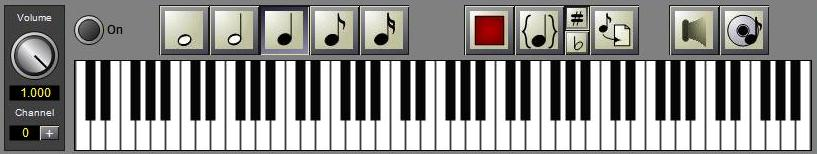
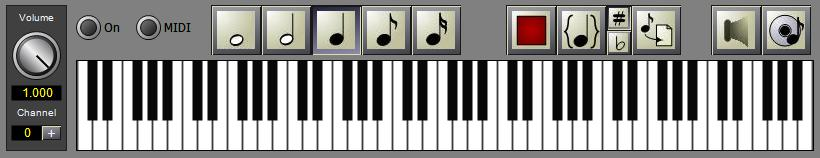
additions for v 1.2: sound banks and MIDI

diff --git a/BSynthComposer/Help/sfinstr.html b/BSynthComposer/Help/sfinstr.html
@@ -1,0 +1,238 @@
+<html>
+<head>
+<title>Sound Bank Instrument</title>
+</head>
+<body>
+<h2>Sound Bank Instrument<hr/></h2>
+<p>The <em>SoundBank</em> instrument provides playback of samples from sound banks (SF2 or DLS files). Unlike the <em>GMPlayer</em>
+instrument, this instrument uses only the sample data and ignores the articulation information (i.e., envelope and modulators). The envelope of the sound
+is controlled by parameters of the <em>SoundBank</em>  instrument.</p>
+<h3>Patch Diagram<hr/></h3>
+<p>The following diagram shows the SoundBank object internal structure.</p>
+<img src="images/soundbankdiag.jpg" alt="Sound bank diagram" />
+
+<h3>Configuration</h3>
+<p>The following table shows the parameter ID numbers and the
+equivalent XML tag and attribute values for the <em>SoundBank</em> instrument. </p>
+
+<table border="1" cellspacing="0" cellpadding="4">
+ <tr valign="top" style="background-color:Black;color:White;">
+  <td><p align="center"><b>Parameter</b></p></td>
+  <td><p align="center"><b>Tag</b></p></td>
+  <td><p align="center"><b>Attribute</b></p></td>
+  <td><p align="center"><b>Name</b><p></td>
+  <td><p align="center"><b>Use</b></p></td>
+ </tr>
+ <tr valign="top">
+  <td><p>16</p></td>
+  <td><p>sf</p></td>
+  <td><p>bank</p></td>
+  <td><p>bank</p></td>
+  <td><p>Bank number matching a bank number in the sound bank file.</p></td>
+</tr>
+<tr valign="top">
+  <td><p>17</p></td>
+  <td><p>&nbsp;</p></td>
+  <td><p>prog</p></td>
+  <td><p>prog</p></td>
+  <td><p>Program number (preset). This selects the instrument from the sound bank.</p></td>
+</tr>
+<tr valign="top">
+  <td><p>18</p></td>
+  <td><p>&nbsp;</p></td>
+  <td><p>mono</p></td>
+  <td><p>monoSet</p></td>
+  <td><p>Force mono playback even if the sound bank sample is multi-channel.</p></td>
+</tr>
+<tr valign="top">
+  <td><p>44</p></td>
+  <td><p>&nbsp;</p></td>
+  <td><p>fmcm</p></td>
+  <td><p>fmcm</p></td>
+  <td><p>Modulator frequency multiplier (i.e., C:M ratio).</p></td>
+</tr>
+<tr valign="top">
+  <td><p>45</p></td>
+  <td><p>&nbsp;</p></td>
+  <td><p>fmim</p></td>
+  <td><p>fmim</p></td>
+  <td><p>Modulator index of modulation..</p></td>
+</tr>
+<tr valign="top">
+  <td><p>20</p></td>
+  <td><p>venv</p></td>
+  <td><p>st</p></td>
+  <td><p>volStart</p></td>
+  <td><p>Volume envelope start level.</p></td>
+</tr>
+<tr valign="top">
+  <td><p>21</p></td>
+  <td><p>&nbsp;</p></td>
+  <td><p>atk</p></td>
+  <td><p>volAttack</p></td>
+  <td><p>Volume envelope attack time.</p></td>
+</tr>
+<tr valign="top">
+  <td><p>22</p></td>
+  <td><p>&nbsp;</p></td>
+  <td><p>atk</p></td>
+  <td><p>volAttack</p></td>
+  <td><p>Volume envelope peak level.</p></td>
+</tr>
+<tr valign="top">
+  <td><p>23</p></td>
+  <td><p>&nbsp;</p></td>
+  <td><p>dec</p></td>
+  <td><p>volDecay</p></td>
+  <td><p>Volume envelope decay time.</p></td>
+</tr>
+<tr valign="top">
+  <td><p>24</p></td>
+  <td><p>&nbsp;</p></td>
+  <td><p>sus</p></td>
+  <td><p>volSustain</p></td>
+  <td><p>Volume envelope sustain level.</p></td>
+</tr>
+<tr valign="top">
+  <td><p>25</p></td>
+  <td><p>&nbsp;</p></td>
+  <td><p>rel</p></td>
+  <td><p>volRelease</p></td>
+  <td><p>Volume envelope release time.</p></td>
+</tr>
+<tr valign="top">
+  <td><p>26</p></td>
+  <td><p>&nbsp;</p></td>
+  <td><p>end</p></td>
+  <td><p>volEnd</p></td>
+  <td><p>Volume envelope end level.</p></td>
+</tr>
+<tr valign="top">
+  <td><p>27</p></td>
+  <td><p>&nbsp;</p></td>
+  <td><p>ty</p></td>
+  <td><p>volType</p></td>
+  <td><p>Volume envelope curve type.</p></td>
+</tr>
+
+<tr valign="top">
+  <td><p>30</p></td>
+  <td><p>menv</p></td>
+  <td><p>st</p></td>
+  <td><p>modStart</p></td>
+  <td><p>Modulator envelope start level.</p></td>
+</tr>
+<tr valign="top">
+  <td><p>31</p></td>
+  <td><p>&nbsp;</p></td>
+  <td><p>atk</p></td>
+  <td><p>modAttack</p></td>
+  <td><p>Modulator envelope attack time.</p></td>
+</tr>
+<tr valign="top">
+  <td><p>32</p></td>
+  <td><p>&nbsp;</p></td>
+  <td><p>atk</p></td>
+  <td><p>modAttack</p></td>
+  <td><p>Modulator envelope peak level.</p></td>
+</tr>
+<tr valign="top">
+  <td><p>33</p></td>
+  <td><p>&nbsp;</p></td>
+  <td><p>dec</p></td>
+  <td><p>modDecay</p></td>
+  <td><p>Modulator envelope decay time.</p></td>
+</tr>
+<tr valign="top">
+  <td><p>34</p></td>
+  <td><p>&nbsp;</p></td>
+  <td><p>sus</p></td>
+  <td><p>modSustain</p></td>
+  <td><p>Modulator envelope sustain level.</p></td>
+</tr>
+<tr valign="top">
+  <td><p>35</p></td>
+  <td><p>&nbsp;</p></td>
+  <td><p>rel</p></td>
+  <td><p>modRelease</p></td>
+  <td><p>Modulator envelope release time.</p></td>
+</tr>
+<tr valign="top">
+  <td><p>36</p></td>
+  <td><p>&nbsp;</p></td>
+  <td><p>end</p></td>
+  <td><p>modEnd</p></td>
+  <td><p>Modulator envelope end level.</p></td>
+</tr>
+<tr valign="top">
+  <td><p>37</p></td>
+  <td><p>&nbsp;</p></td>
+  <td><p>ty</p></td>
+  <td><p>modType</p></td>
+  <td><p>Modulator envelope curve type.</p></td>
+</tr>
+
+<tr valign="top">
+  <td><p>40</p></td>
+  <td><p>vlfo</p></td>
+  <td><p>atk</p></td>
+  <td><p>vibLfoAttack</p></td>
+  <td><p>Modulator envelope curve type.</p></td>
+</tr>
+<tr valign="top">
+  <td><p>41</p></td>
+  <td><p>&nbsp;</p></td>
+  <td><p>frq</p></td>
+  <td><p>vibLfoFrq</p></td>
+  <td><p>Vibrato frequency.</p></td>
+</tr>
+<tr valign="top">
+  <td><p>42</p></td>
+  <td><p>&nbsp;</p></td>
+  <td><p>amp</p></td>
+  <td><p>vibLfoLevel</p></td>
+  <td><p>Vibrato amplitude.</p></td>
+</tr>
+<tr valign="top">
+  <td><p>43</p></td>
+  <td><p>&nbsp;</p></td>
+  <td><p>ty</p></td>
+  <td><p>vibLfoWT</p></td>
+  <td><p>Vibrato wavetable.</p></td>
+</tr>
+
+<tr valign="top">
+  <td><p>46</p></td>
+  <td><p>pb</p></td>
+  <td><p>pbamp</p></td>
+  <td><p>pbamp</p></td>
+  <td><p>Pitch bend amplitude.</p></td>
+</tr>
+<tr valign="top">
+  <td><p>48</p></td>
+  <td><p>pb</p></td>
+  <td><p>pbwt</p></td>
+  <td><p>pbwt</p></td>
+  <td><p>Pitch bend wavetable.</p></td>
+</tr>
+</tr>
+</table>
+
+<h3>XML Format<hr/></h3>
+<pre>
+&lt;instr id=&quot;&quot; type=&quot;SoundBank&quot; name=&quot;&quot; desc=&quot;&quot;&gt;
+   &lt;gm local=&quot;1&quot; vol=&quot;1.000000&quot; pan=&quot;0.000000&quot; bank=&quot;0&quot; prog=&quot;0&quot; flags=&quot;16375&quot;&gt;
+     Soundbank Name
+   &lt;/gm&gt;
+  &lt;sf bank=&quot;0&quot; prog=&quot;0&quot; mono=&quot;0&quot; fmcm=&quot;2.099000&quot; fmim=&quot;0.260000&quot;&gt;
+     &lt;file&gt;alias&lt;/file&gt;
+     &lt;instr&gt;display name&lt;/instr&gt;
+  &lt;/sf&gt;
+  &lt;venv st=&quot;0.000000&quot; atk=&quot;0.330000&quot; pk=&quot;1.000000&quot; dec=&quot;0.000000&quot; sus=&quot;1.000000&quot; rel=&quot;0.400000&quot; end=&quot;0.100000&quot; ty=&quot;2&quot; /&gt;
+  &lt;menv st=&quot;0.000000&quot; atk=&quot;0.389000&quot; pk=&quot;1.000000&quot; dec=&quot;1.549000&quot; sus=&quot;0.480000&quot; rel=&quot;0.619000&quot; end=&quot;0.000000&quot; ty=&quot;2&quot; /&gt;
+  &lt;vlfo frq=&quot;4.630000&quot; wt=&quot;0&quot; atk=&quot;1.039000&quot; amp=&quot;0.070000&quot; /&gt;
+  &lt;pb pbamp=&quot;0.000000&quot; pbwt=&quot;9&quot; /&gt;
+&lt;/instr&gt;
+</pre>
+</body>
+</html>

diff --git a/BSynthComposer/Help/projectoptions.html b/BSynthComposer/Help/projectoptions.html
@@ -1,0 +1,60 @@
+<!DOCTYPE HTML PUBLIC "-//IETF//DTD HTML//EN">
+<html>
+<head>
+<title>Project Options</title>
+</head>
+<body>
+<h1>Project Options<hr/></h1>
+<p>The Project Options form is used to set options for the synthesizer that apply to all projects. The values in this form are stored
+in the registry and reloaded when <i>BasicSynth</i> starts.</p>
+<img src="images/projectoptions.jpg" alt="Project Options" />
+<p>
+The <b>Composer</b> field sets the default composer name. The <b>Copyright</b> field sets the default copyright notice.
+These values are used to initialize a new project.
+</p>
+<p>
+The <b>Project Tree Options</b> buttons select optional features of <i>BasicSynth</i> that will appear in the project tree view.
+</p>
+<ul>
+<li><b>Notelists</b> shows the notelist file entry in the tree.</li>
+<li><b>Sequences</b> shows the sequencer file entry in the tree.</li>
+<li><b>Script files</b> shows an entry for scipt files. Script files are short programs that are processed
+by the synthesizer. (These are not yet implemented.)</li>
+<li><b>Text files</b> shows the text file entry in the tree. Text files are used to asscociate generic 
+text files with the project. These can be used to hold program notes, etc.</li>
+<li><b>Libraries</b> shows the Library file entry in the tree. Libraries are collections of instruments.</li>
+<li><b>SoundFonts</b> shows the Sound Bank file entry in the tree. Enable this if you want to use
+sound bank instruments.</li>
+<li><b>MIDI</b> shows the MIDI entry in the tree. This is used to set default program and volume
+levels for MIDI channels. It is only needed if you have a MIDI keyboard.</li>
+</ul>
+<p>
+The <b>Projects</b> field contains the default directory for project files.
+</p>
+<p>
+The <b>Wave-In</b> field contains the default directory for WAV files used by the WFSynth insrument.
+</p>
+<p>
+The <b>Forms</b> field contains the default directory for instrument form files. 
+</p>
+<p>
+The <b>Colors</b> field contains the file containing color definitions for instrument forms.
+</p>
+<p>
+The <b>Libraries</b> field contains the default directory for instrument library files.
+</p>
+<p>
+The <b>MIDI In</b> field allows selection of the MIDI input device.
+</p>
+<p>
+The <b>Wave Out</b> field allows selection of the wave output device (sound card).
+</p>
+<p>
+The <b>Play Latency</b> field contains the value in seconds for playback latency. A longer latency time
+creates a larger buffer for sound output. A larger buffer helps to prevent glitches in sound output,
+but produces a longer delay between sound generation and sound output. A value of 1 to 0.1 seconds
+is typical. However, when using a MIDI keyboard, this value should be set to the minimum amount (20 milliseconds) to avoid
+audible delays between key press and sound output.
+</p>
+</body>
+</html>

diff --git a/BSynthComposer/Help/player.html b/BSynthComposer/Help/player.html
@@ -19,7 +19,8 @@ For these reasons, the keyboard is not automatically started when you open a pro
 want to play sounds, press the "On" button above the keyboard. Note: The first time you start the
 keyboard there might be a slight delay while the system opens and prepares the sound card. If you
 start the sequencer, or reconfigure the mixer, the keyboard will automatically turn off.</p>
-<p>
+<p>When a MIDI device is connected to the computer, the MIDI light will be available. Click on the
+lamp to enable/disable receiving events from the MIDI keyboard.</p>
 <h2>Instrument Selection<hr/></h2>
 <p>
 A list to the left of the keyboard shows all currently available instruments. In order to play the keyboard,
@@ -45,6 +46,8 @@ is 120bpm, thus a quarter note represents 1/2 second duration. The duration butt
 during recording to indicate the actual length of a note.
 </p>
 <h2>Recording<hr/></h2>
+<p><b>Note:</b> Recording is only available from the virtual keyboard. MIDI events
+are not currently recorded.</p>
 <p>
 The record controls are to the right of the note buttons. The first button (red in color) switches the
 record function on and off. When record is on, each note you play is added to a buffer. Notes

diff --git a/BSynthComposer/Help/gminstr.html b/BSynthComposer/Help/gminstr.html
@@ -5,7 +5,7 @@
 <body>
 <h2>General MIDI Instrument<hr/></h2>
 <p>The <i>GM </i> instrument emulates a MIDI wavetable synthesis keyboard instrument with downloadable sounds. The sound files may
-be loaded from either a SoundFont(R) (SF2) or DLS sound bank. The present version of this instrument does not implement all possible features of
+be loaded from either a SoundFont&reg; (SF2) or DLS sound bank. The present version of this instrument does not implement all possible features of
 the GM specification and sound bank player, but is sufficient to play most sound bank files based on recorded sounds. In particular, only some
 MIDI controller values are recognized and applied to the instrument.</p>
 <p>The instrument type name is <i>GMPlayer</i>, but the instrument is implemented using a combination of objects:

diff --git a/BSynthComposer/Help/toneinstr.html b/BSynthComposer/Help/toneinstr.html
@@ -9,7 +9,7 @@ contains a single oscillator, ADSR envelope generator, LFO generator and pitch b
 waveform for the oscillator is selectable, providing for a variety of sounds.
 Although limited in abilty to produce a dyamic timbre, it is fast to execute and very easy to configure.</p>
 <h3>Patch Diagram<hr/></h3>
-<img src="images/tonediag.jpg" alg="tone diagram" />
+<img src="images/tonediag.jpg" alt="tone diagram" />
 
 <h3>Configuration<hr/></h3>
 <p>The following table shows the parameter ID numbers and the
